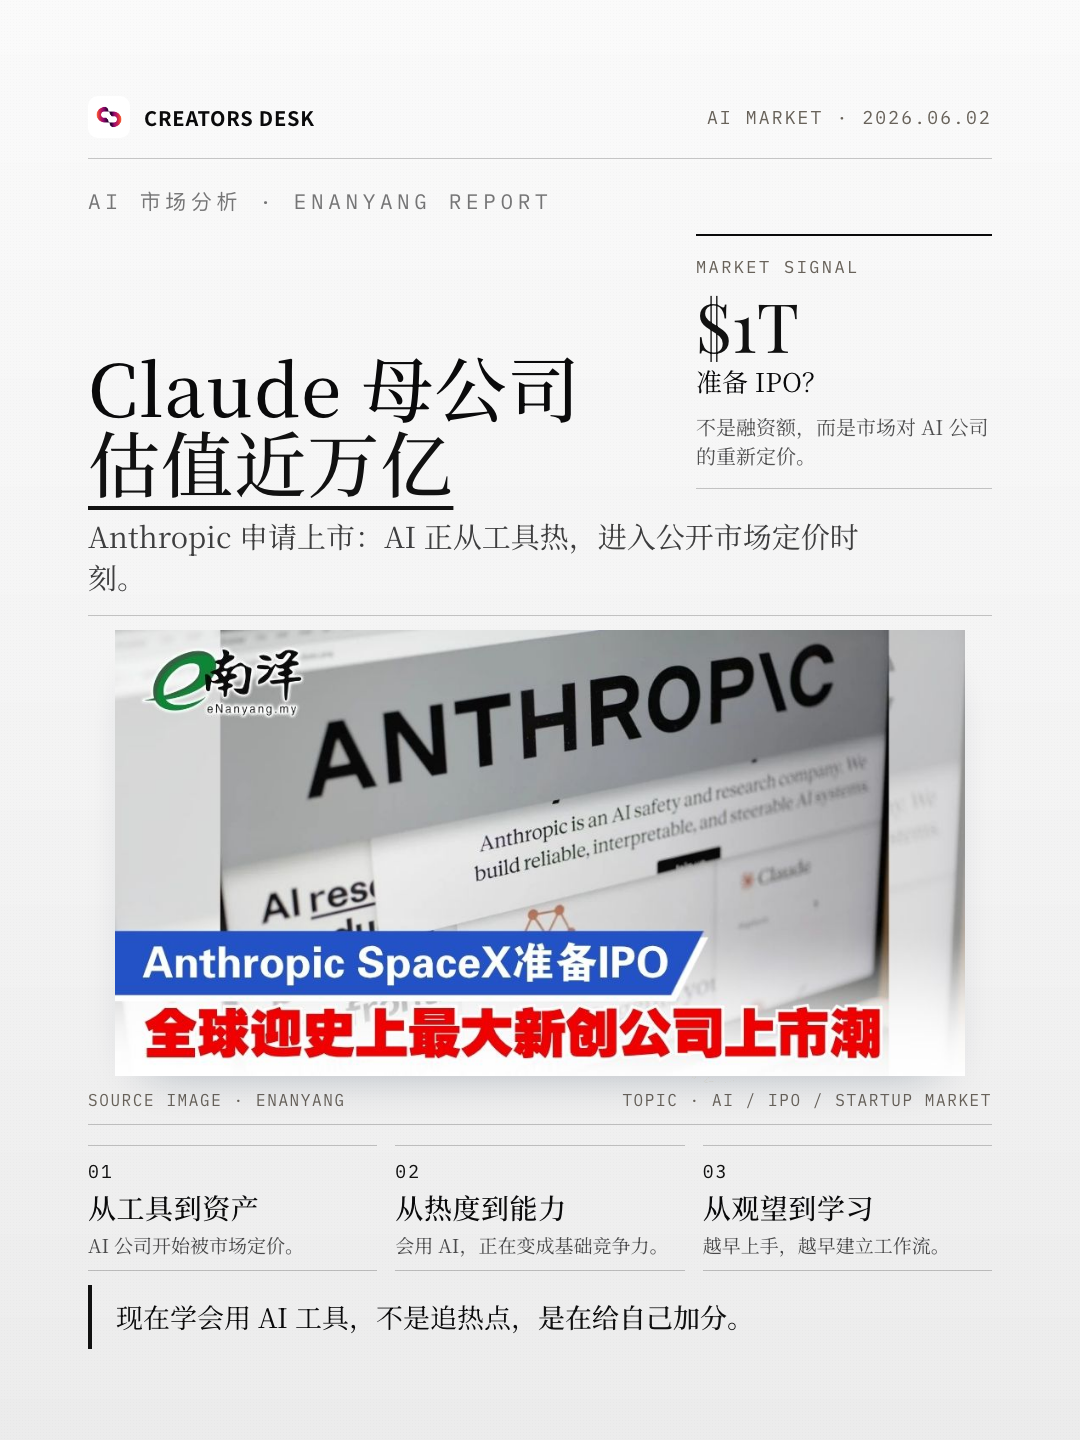
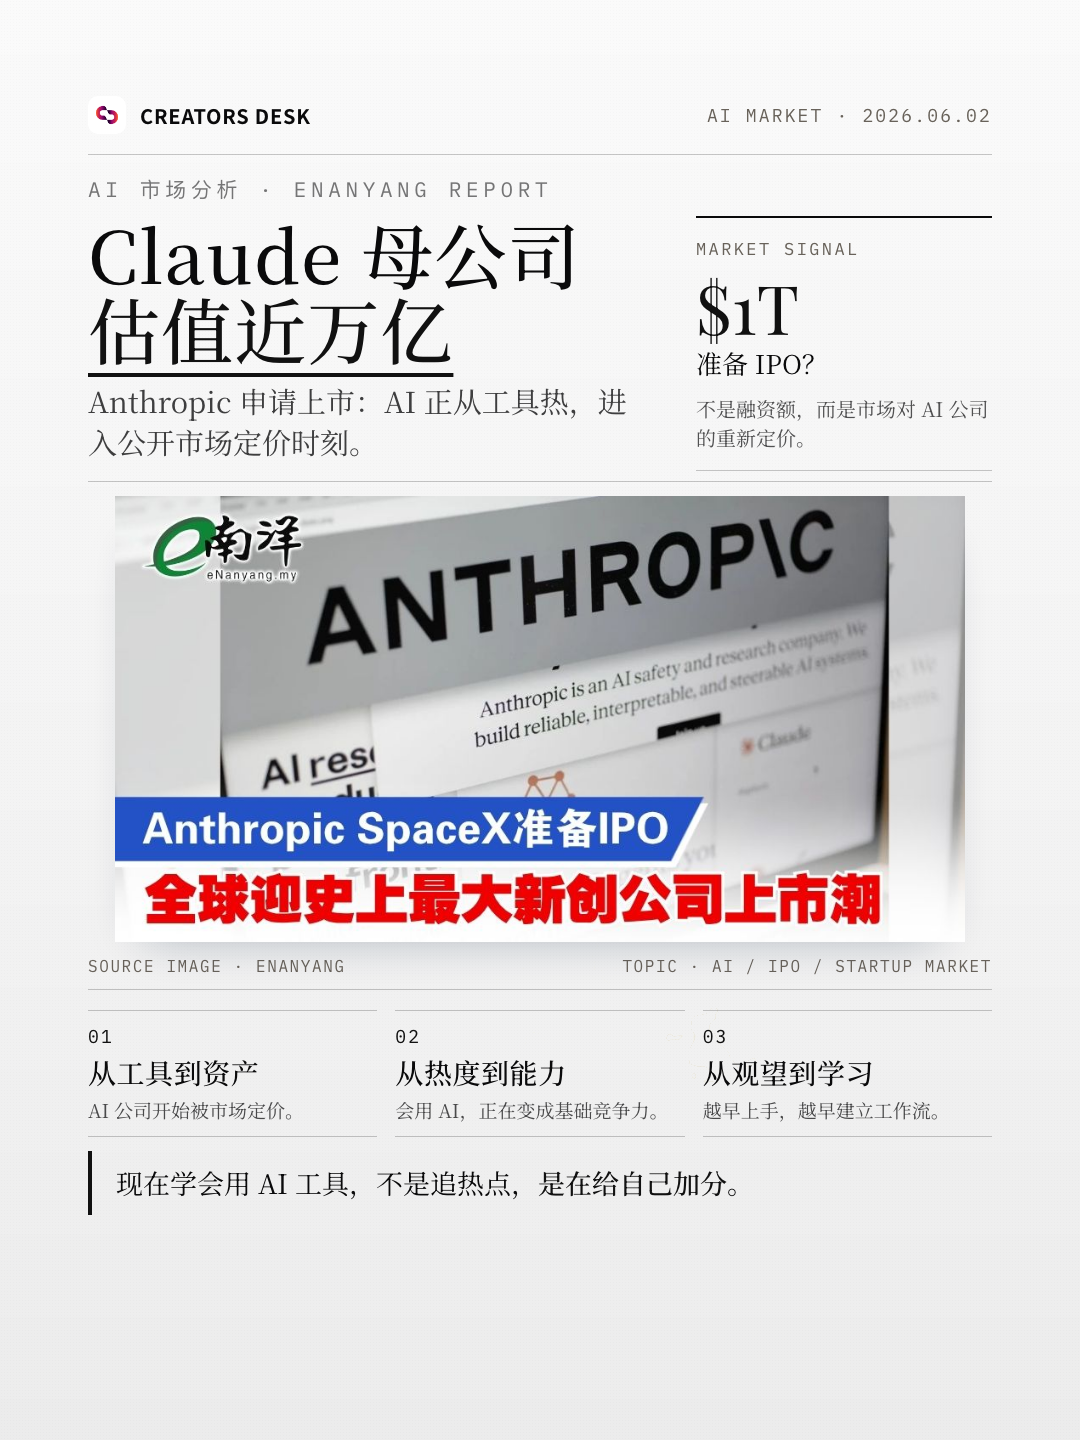
Tighten AI news card top layout

diff --git a/social-card-ai-ipo-news/index.html b/social-card-ai-ipo-news/index.html
@@ -754,7 +754,7 @@
 
     /* ---------- Task scope: AI IPO news cover ---------- */
     .news-cover .content {
-      padding: 64px 78px 58px;
+      padding: 52px 78px 58px;
       display: flex;
       flex-direction: column;
     }
@@ -764,7 +764,7 @@
       justify-content: space-between;
       border-bottom: 1px solid var(--line);
       padding-bottom: 20px;
-      margin-bottom: 28px;
+      margin-bottom: 20px;
     }
     .news-cover .brand-lockup {
       display: flex;
@@ -777,8 +777,8 @@
       color: var(--ink);
     }
     .news-cover .brand-lockup img {
-      width: 42px;
-      height: 42px;
+      width: 38px;
+      height: 38px;
       border-radius: 10px;
     }
     .news-cover .dateline {
@@ -808,7 +808,8 @@
       display: grid;
       grid-template-columns: 560px 1fr;
       gap: 48px;
-      align-items: end;
+      align-items: start;
+      margin-top: -6px;
     }
     .news-cover .stat-card {
       border-top: 2px solid var(--ink);
@@ -848,7 +849,7 @@
       margin: 0;
     }
     .news-cover .deck {
-      margin: 16px 0 18px;
+      margin: 14px 0 0;
       max-width: 820px;
       font-family: var(--serif-zh);
       font-size: 29px;
@@ -969,7 +970,10 @@
 
         <p class="kicker">AI 市场分析 · eNanyang Report</p>
         <div class="hero-grid">
-          <h1 class="headline">Claude 母公司<br><span class="accent">估值近万亿</span></h1>
+          <div>
+            <h1 class="headline">Claude 母公司<br><span class="accent">估值近万亿</span></h1>
+            <p class="deck">Anthropic 申请上市：AI 正从工具热，进入公开市场定价时刻。</p>
+          </div>
           <aside class="stat-card">
             <div class="stat-kicker">Market Signal</div>
             <div class="stat-num">$1T</div>
@@ -977,7 +981,6 @@
             <p class="stat-note">不是融资额，而是市场对 AI 公司的重新定价。</p>
           </aside>
         </div>
-        <p class="deck">Anthropic 申请上市：AI 正从工具热，进入公开市场定价时刻。</p>
 
         <!-- subject map:
              source image is a wide news graphic with its own title strip and eNanyang logo.
